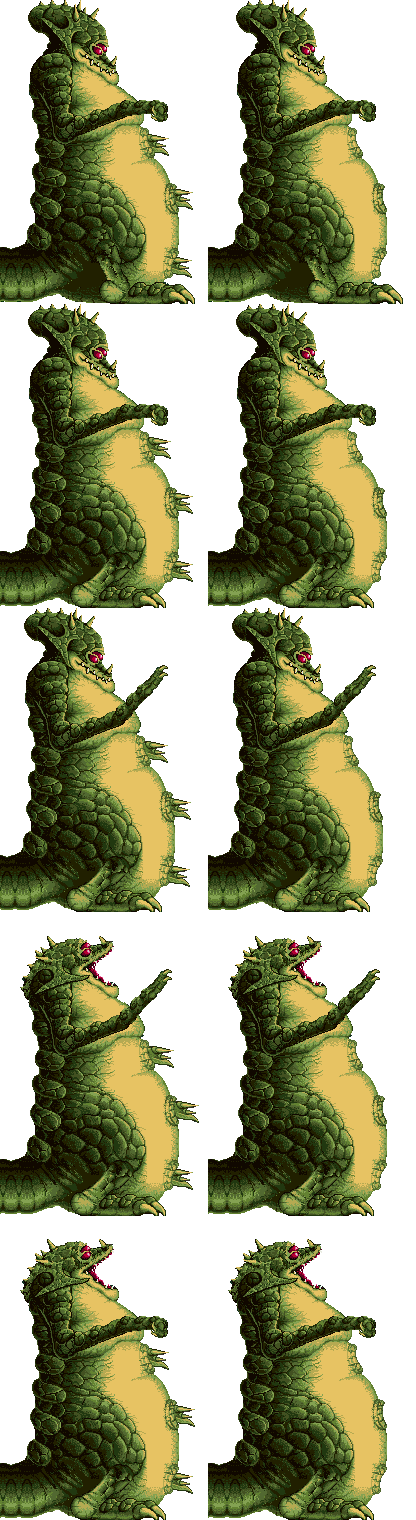
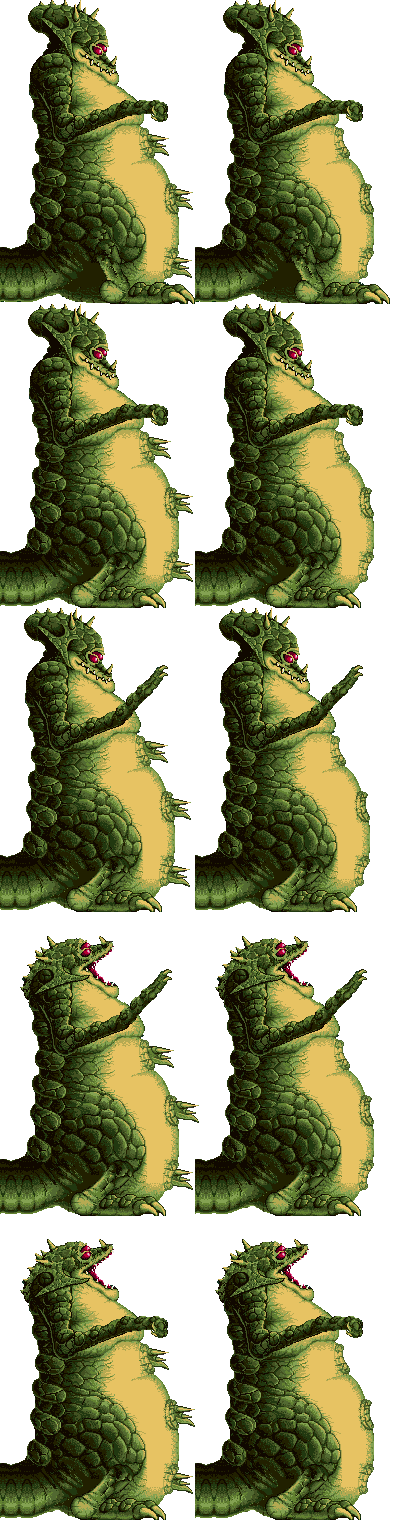
Kraid Parte 1
- Cambiadas las coordenadas de Samus para hacer pruebas.

- Añadidas imágenes de los proyectiles de Kraid, al igual que se actualiza su propia imagen.

- Animación base (revisable) y parte del código para el primer ataque.

Changed region(s): [[0.4688, 0.0, 0.9688, 1.0]]

diff --git a/super-metroid.js b/super-metroid.js
@@ -95,8 +95,8 @@ window.addEventListener('load', function () {
 			this._super(p, {
 				sprite: "samus_anim",
 				sheet: "samus_fire",
-				x: 3715, //3075, 1540, 3220 x: 1700, y: 1672
-				y: 340, //300, 480, 900
+				x: 700, //3715, //3075, 1540, 3220 x: 1700, y: 1672
+				y: 1787,//340, //300, 480, 900
 				onAir: false,
 				state: 2,   //3: saltando, 2: en pie, 1: agachado, 0: bola
 				last_vx: 0,
@@ -913,27 +913,30 @@ window.addEventListener('load', function () {
             this.p.direction = 'fireL';
             this.p.vx = 0;
             this.p.sheet = 'space_pirate_fire_left';
-						console.log(this.p.deltaTime);
-						if(this.p.deltaTime >= 120){
-							var projectile = new Q.SpacePirateProjectile({x: this.p.x-35, y: this.p.y, vx: -100});
-							this.stage.insert(projectile);
-							this.p.deltaTime = 0;
-						}else{
-							this.p.deltaTime = this.p.deltaTime + 1;
-						}
+
+			console.log(this.p.deltaTime);
+			if(this.p.deltaTime >= 120){
+				var projectile = new Q.SpacePirateProjectile({x: this.p.x-30, y: this.p.y, vx: -100});
+				this.stage.insert(projectile);
+				this.p.deltaTime = 0;
+			}else{
+				this.p.deltaTime = this.p.deltaTime + 1;
+			}
         },
 
         fire_right: function() { // WIP
             this.p.direction = 'fireR';
             this.p.vx = 0;
             this.p.sheet = 'space_pirate_fire_right';
-						if(this.p.deltaTime >= 120){
-							var projectile = new Q.SpacePirateProjectile({x: this.p.x+35, y: this.p.y, vx: +100});
-							this.stage.insert(projectile);
-							this.p.deltaTime = 0;
-						}else{
-							this.p.deltaTime = this.p.deltaTime + 1;
-						}
+
+			console.log(this.p.deltaTime);
+			if(this.p.deltaTime >= 120){
+				var projectile = new Q.SpacePirateProjectile({x: this.p.x+30, y: this.p.y, vx: +100});
+				this.stage.insert(projectile);
+				this.p.deltaTime = 0;
+			}else{
+				this.p.deltaTime = this.p.deltaTime + 1;
+			}
         },
 
         /**
@@ -995,7 +998,7 @@ window.addEventListener('load', function () {
     });
 
 Q.animations('kraid animation', { // WIPS
-    	'live': { frames: [0], loop: false }
+    	'live': { frames: [2, 4, 2, 4, 2, 4, 6, 8], rate: 1 / 2 }
     });
     /**
      * Clase que representa al enemigo Skree.
@@ -1008,6 +1011,8 @@ Q.animations('kraid animation', { // WIPS
                  * Sprite del Skree.
                  */
                 sheet: 'kraid',
+
+                bullet_cd: 0,
             });
             /**
              * Los módulos Quintus necesarios.
@@ -1017,6 +1022,46 @@ Q.animations('kraid animation', { // WIPS
 
         step: function(dt) {
             this.play('live');
+
+            if(this.p.bullet_cd == 60) {
+            	this.p.bullet_cd = 0;
+            	this.trigger('bullet'); // WIP
+            }
+            else {
+            	this.p.bullet_cd++;
+            }
+        }
+    });
+
+    Q.animations('kraid_bullets animation', {
+        'fire': { frames: [0], loop: false }
+    });
+
+
+   Q.Sprite.extend('KraidBullet', {
+        init: function (p) {
+            this._super(p, {
+                sprite: 'kraid_bullets animation',
+                sheet: 'kraid_bullets',
+								x: 0,
+								y: 0,
+								vx: 0,
+                vy: 0,
+								scale: 0.60,
+                gravity: false,
+            });
+
+            this.add('2d, animation');
+
+            this.on("hit", function (collision) {
+							if (!collision.obj.isA('KraidBullet')) {
+								this.destroy();
+							}
+            });
+        },
+
+        step: function(dt) {
+            this.play('fire');
         }
     });
 
@@ -1056,7 +1101,7 @@ Q.animations('kraid animation', { // WIPS
 	});
 
 	Q.loadTMX(
-		'samus.png, samus.json, weapons.png, weapons.json, rightdoor.png, rightdoor.json, leftdoor.png, leftdoor.json, ball.png, ball.json, missile.png, missile.json, zoomer.png, zoomer.json, skree.png, skree.json, space_pirate.png, space_pirate.json, space_pirate_projectile.png, space_pirate_projectile.json, kraid.png, kraid.json, zebes.tmx',
+		'samus.png, samus.json, weapons.png, weapons.json, rightdoor.png, rightdoor.json, leftdoor.png, leftdoor.json, ball.png, ball.json, missile.png, missile.json, zoomer.png, zoomer.json, skree.png, skree.json, space_pirate.png, space_pirate.json, space_pirate_projectile.png, space_pirate_projectile.json, kraid.png, kraid.json, kraid_bullets.png, kraid_bullets.json, kraid_claws.png, kraid_claws.json, zebes.tmx',
 		function () {
 			Q.compileSheets('samus.png', 'samus.json');
 			Q.compileSheets('weapons.png', 'weapons.json');
@@ -1069,6 +1114,8 @@ Q.animations('kraid animation', { // WIPS
         	Q.compileSheets('space_pirate.png', 'space_pirate.json');
         	Q.compileSheets('space_pirate_projectile.png', 'space_pirate_projectile.json');
         	Q.compileSheets('kraid.png', 'kraid.json');
+        	Q.compileSheets('kraid_bullets.png', 'kraid_bullets.json');
+        	Q.compileSheets('kraid_claws.png', 'kraid_claws.json');
 			Q.stageScene('level1');
 		}
 	);
